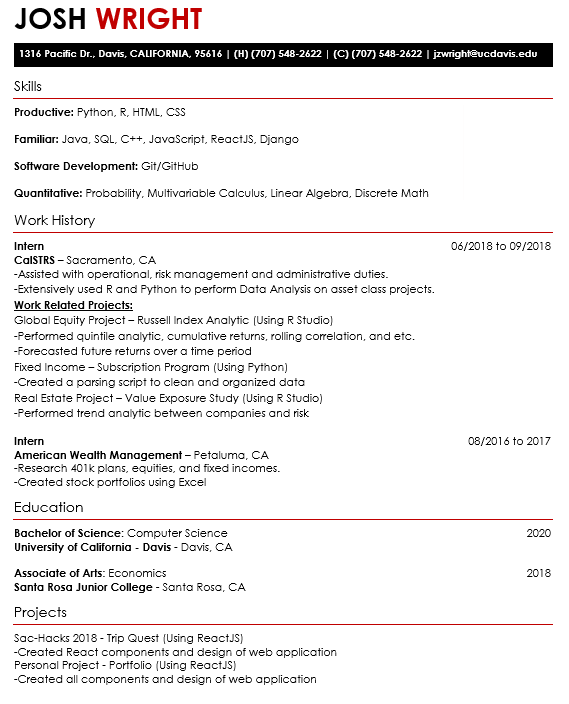
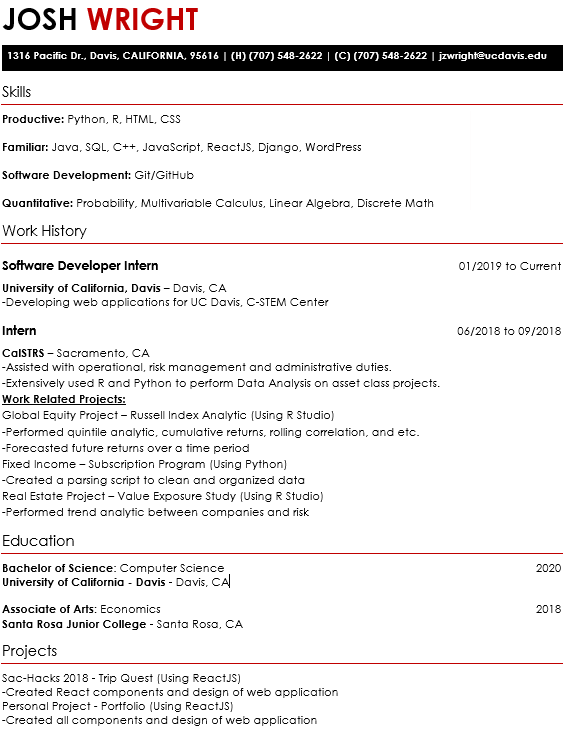
updated Resume Job

diff --git a/src/components/home.js b/src/components/home.js
@@ -24,9 +24,10 @@ class Home extends Component {
             <p className="skills">
               <b>Productive: </b> Python, R, HTML, CSS
               <br />
-              <b>Familiar: </b> Java, C++, JavaScript, ReactJS, Django, SQL
+              <b>Familiar: </b> Java, C++, JavaScript, ReactJS, Django, SQL,
+              WordPress
               <br />
-              <b>Software Development: </b> Git/Github, Heroku
+              <b>Software Development: </b> Git/Github
               <br />
               <b>Quantitative: </b> Probability, Multivariable Calculus, Linear
               Algebra, Discrete Math
